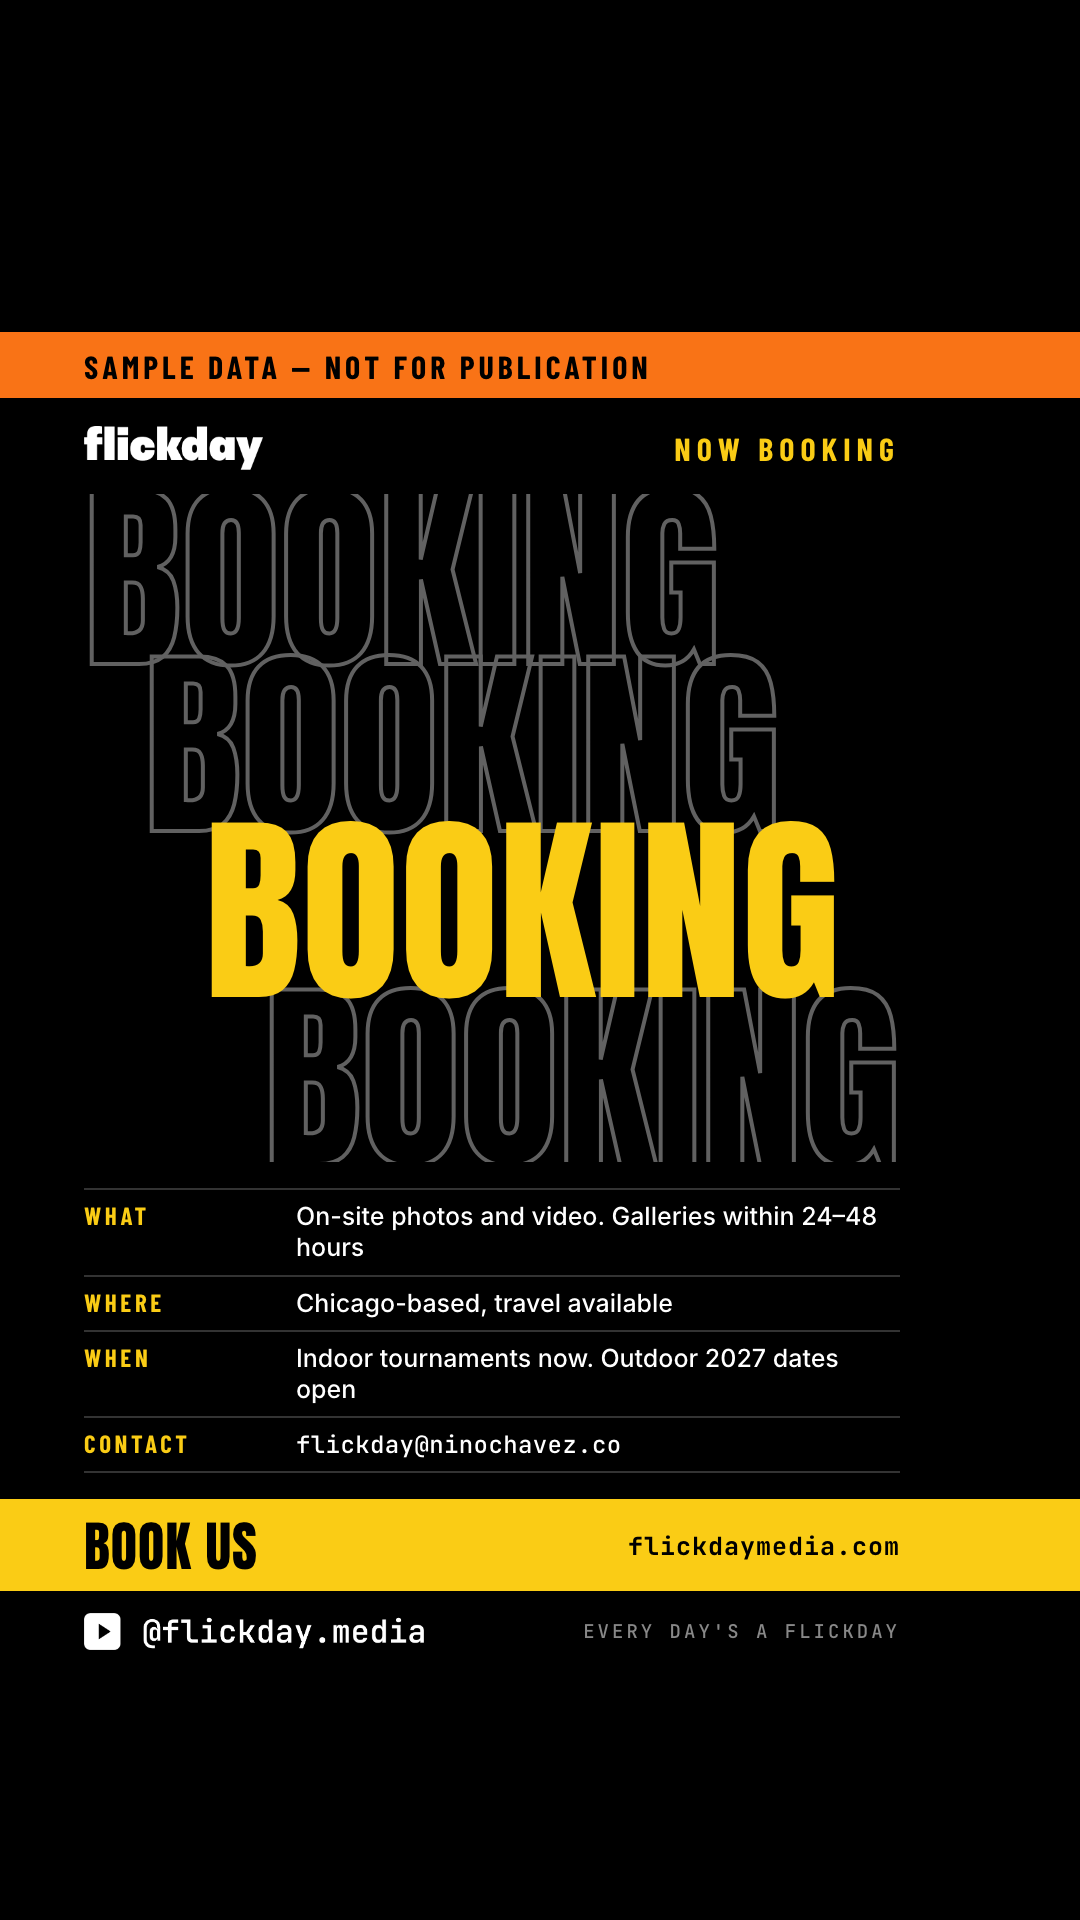
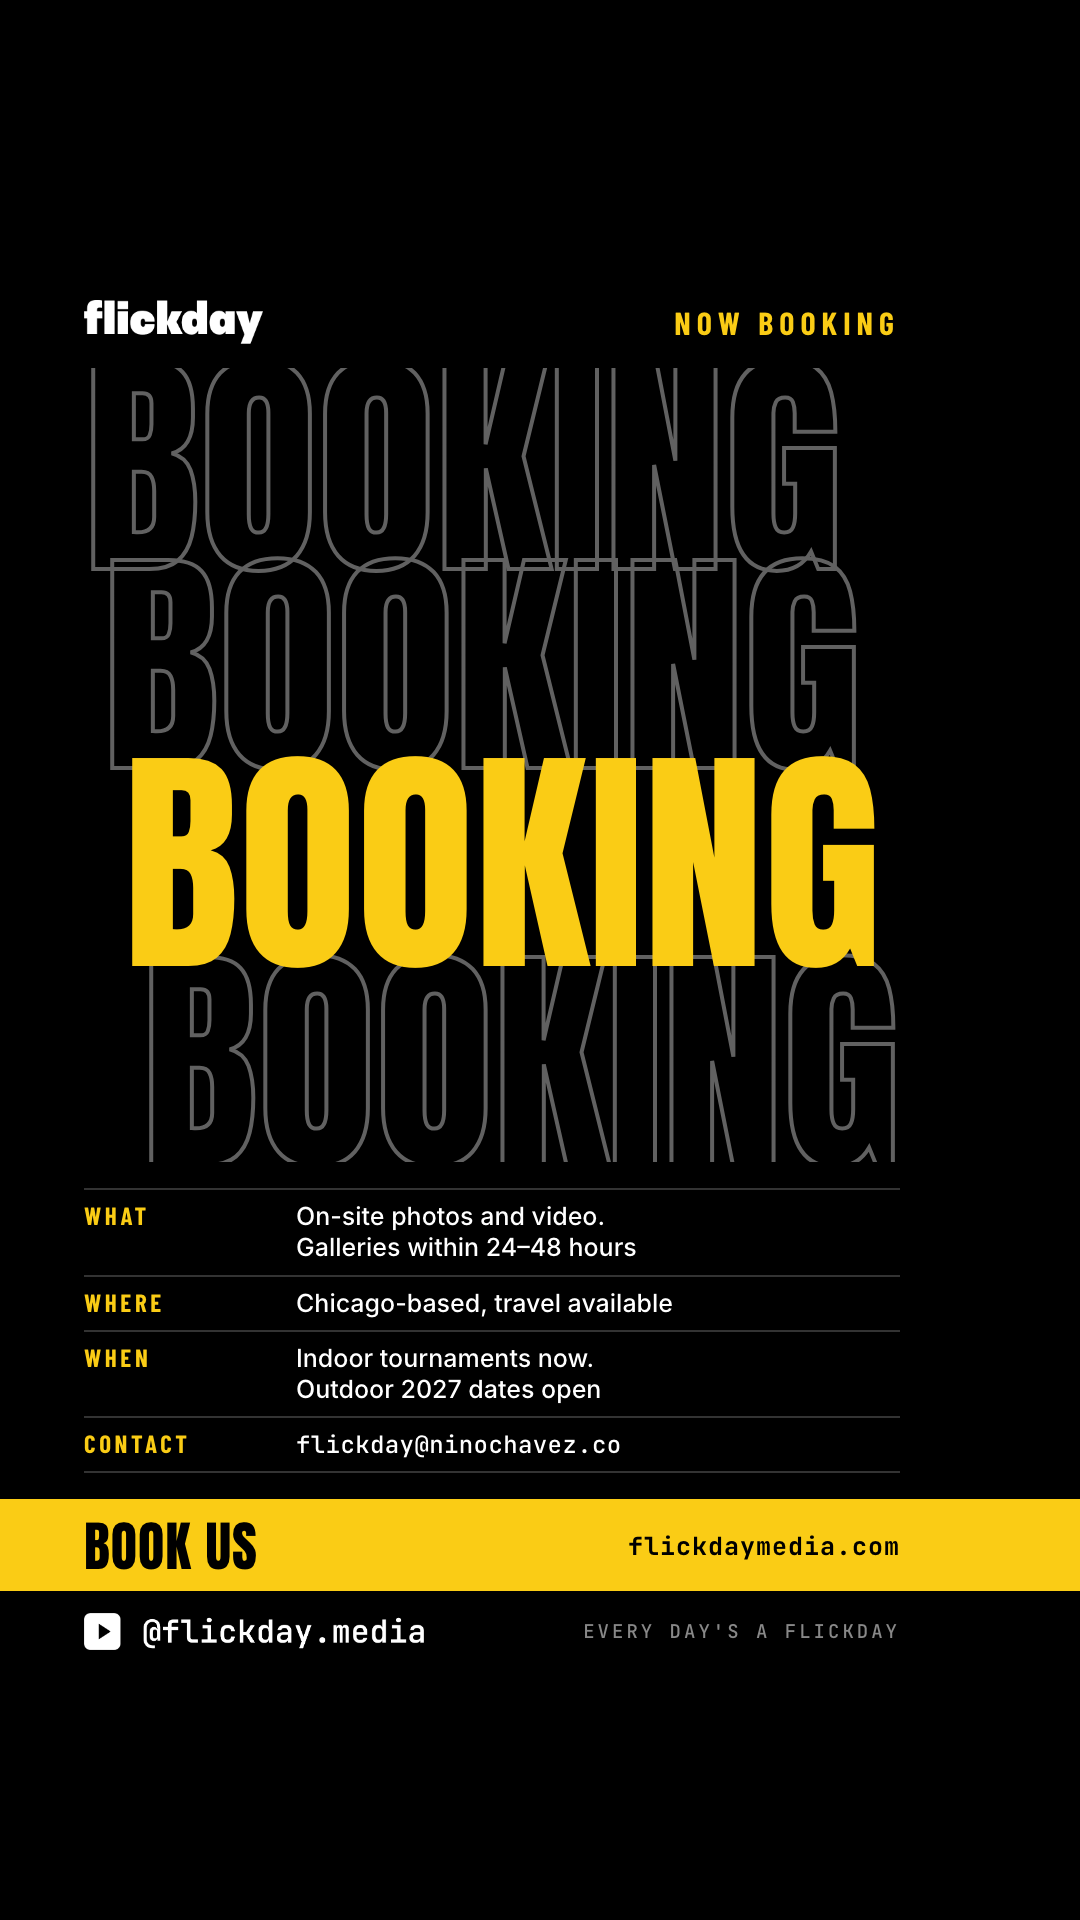
feat(social): booking-push confirmed, re-rendered without its bar
Nino confirmed the booking card (2026-10-12). Every string traces to the
live index.html: "Photos and video, on site.", "Galleries within 24–48
hours", "based in Chicago", "Happy to travel.", the contact status
"Booking indoor tournaments now. Outdoor 2027 dates open." and the
contact address. facts_confirmed is true again, so it renders with no
SAMPLE DATA bar, and the README notes say when to re-trace it.

The story size wrapped a single word onto a second line in two rows
("hours", "open"). The fact cells now use text-wrap: balance, which
breaks both at the full stop; the feed size fits each row on one line
and is unchanged in layout.

diff --git a/flickday-assets/social/templates/booking-push.html b/flickday-assets/social/templates/booking-push.html
@@ -68,7 +68,7 @@
       .fact b{flex:0 0 190px;font-family:var(--font-tag);font-weight:700;font-size:25px;line-height:1.15;
               letter-spacing:3.6px;color:var(--yellow);text-transform:uppercase;}
       .fact span{flex:1 1 auto;font-family:var(--font-body);font-weight:500;font-size:25px;line-height:1.25;
-                 color:var(--white);}
+                 color:var(--white);text-wrap:balance;}
       .fact.mono span{font-family:var(--font-label);font-weight:500;font-size:24px;letter-spacing:.4px;}
 
       .cta{flex:0 0 auto;margin:26px 0 0;background:var(--yellow);color:var(--black);

diff --git a/flickday-assets/social/templates/README.md b/flickday-assets/social/templates/README.md
@@ -25,10 +25,10 @@ orange bar reading `SAMPLE DATA — NOT FOR PUBLICATION` above everything else, 
 the layout reflows to fit it.
 
 - Set it to `true` only when every string on the card traces to a source you can name.
-- `booking-push.data.json` ships `false` until its 2026-10-12 copy is re-rendered and looked at.
-  It shipped `true`, and so carried "same-day photo drops", a claim the site no longer makes,
-  with no warning bar. Its strings now come from the live `index.html`; set it back to `true`
-  after the look.
+- `booking-push.data.json` ships `true`: nino confirmed it on 2026-10-12, after its copy was
+  rewritten from the live `index.html`. It had shipped `true` before that with "same-day photo
+  drops", a claim the site no longer makes, so it rendered with no warning bar. When the site's
+  words change, re-trace every string before leaving it `true`.
 - The other three ship `false` — their sample content is invented to show the composition.
 - The orange is Event Orange `#f97316`, which BRAND-PRIORS lists as a deliberate non-site
   accent. The bar cannot be yellow: yellow is already the CTA colour on three of the four cards.
@@ -126,10 +126,9 @@ drifted.
 
 - The optical-cut crossover (24 px on screen) is in `BRAND-PRIORS.md`; `SOCIAL.md` turns it into
   canvas sizes. `WORDMARK.md`, which this line used to cite, was removed on 2026-08-24.
-- `booking-push`, once set back to `true`, is the one card that renders with no bar, so its
-  pixels carry no warning. Its booking line is verbatim from the live site's contact status
-  ("Booking indoor tournaments now. Outdoor 2027 dates open."), which changes with the season.
-  Check the site says what you want it to say before posting this one. Its rendered PNGs predate
-  the 2026-10-12 copy fix and still say "same-day photo drops"; re-render before posting.
+- `booking-push` is the one card that renders with no bar, so its pixels carry no warning. Its
+  booking line is verbatim from the live site's contact status ("Booking indoor tournaments now.
+  Outdoor 2027 dates open."), which changes with the season. Check the site says what you want it
+  to say before posting this one.
 - Nobody has looked at these on a phone yet. The sizes follow `SOCIAL.md`'s arithmetic, not a
   measurement of a real post.
